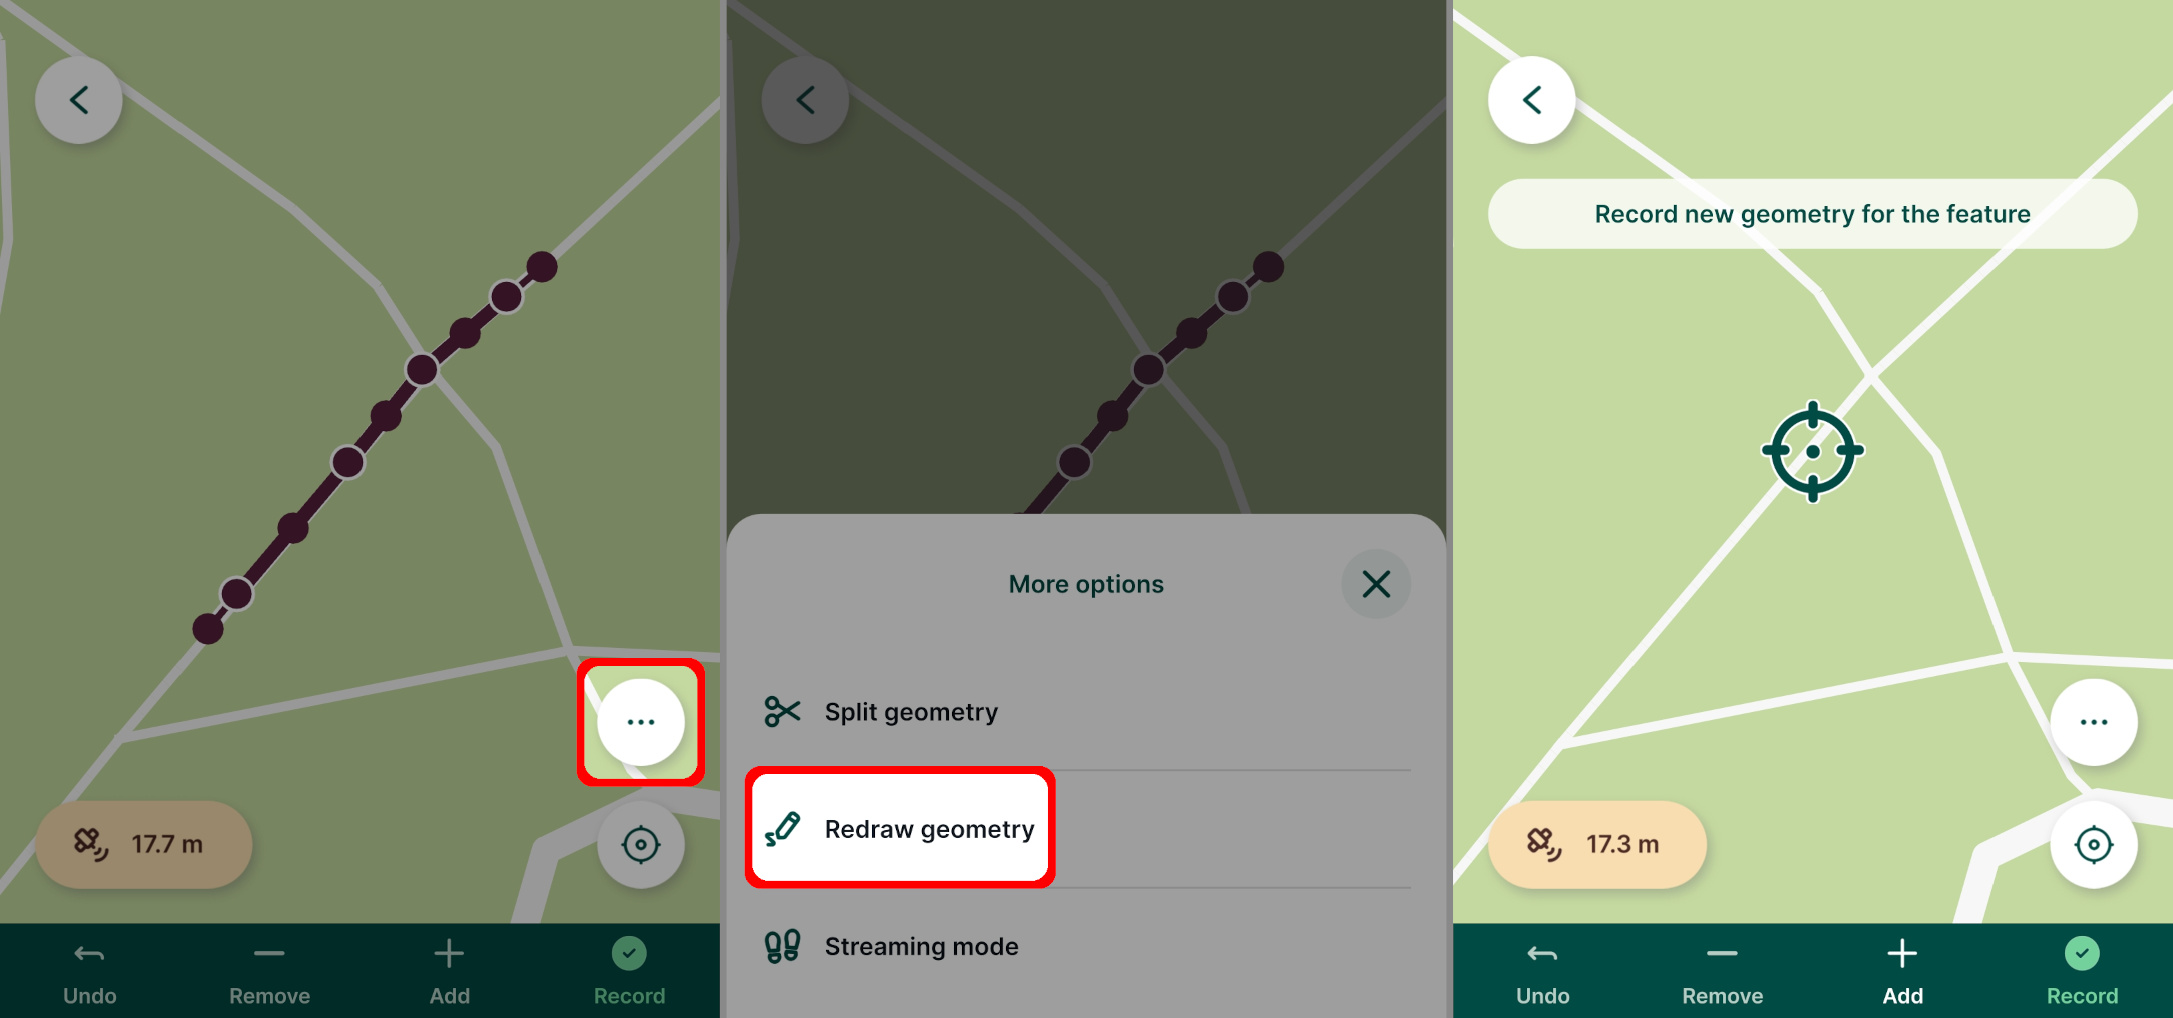
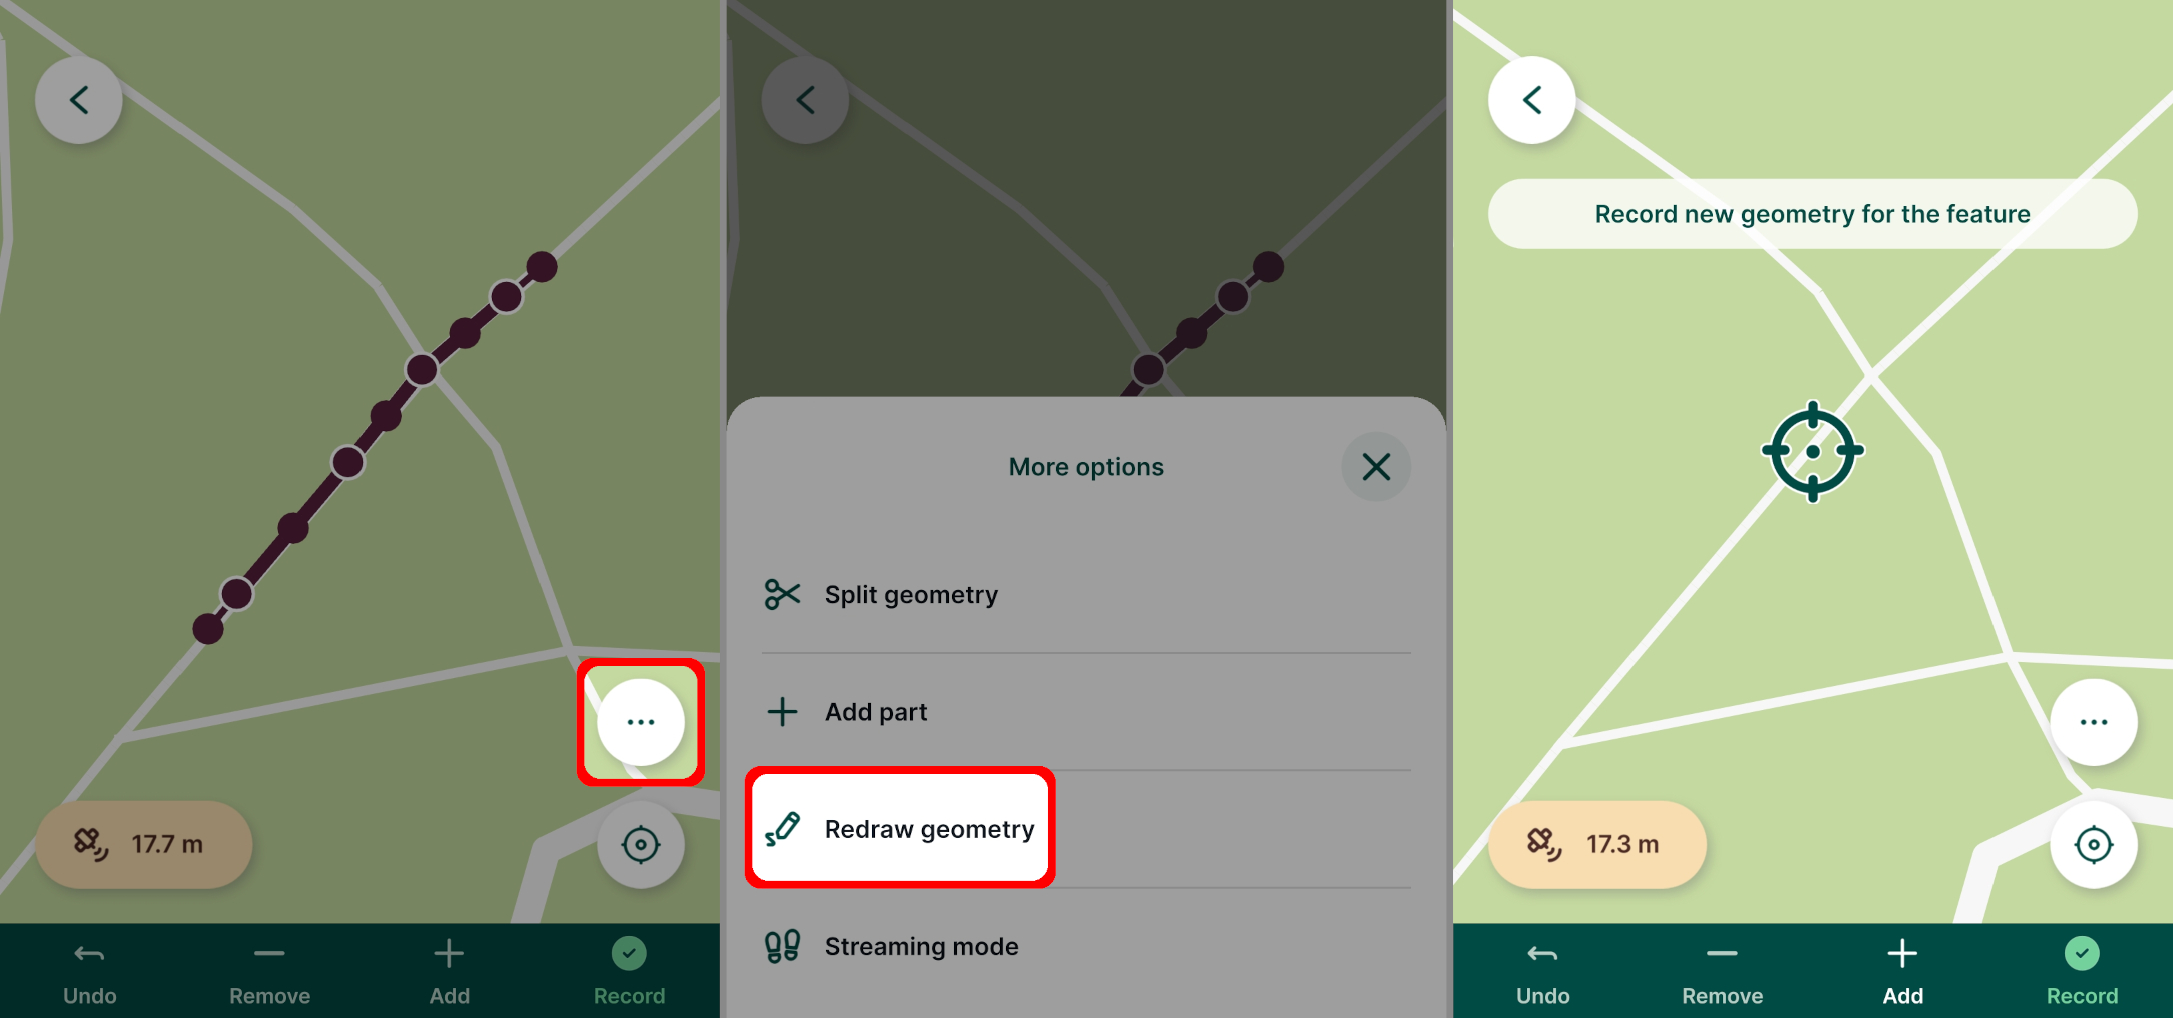
multipart geometry

diff --git a/src/field/mobile-features/index.md b/src/field/mobile-features/index.md
@@ -1,5 +1,6 @@
 ---
 description: With Mergin Maps mobile app, you can capture and edit points, lines, polygons and non-spatial features in the field using comprehensive editing tools.
+outline: deep
 ---
 
 # How to Add, Edit, Delete Features
@@ -30,7 +31,7 @@ The crosshairs you will see on your map are used as the recorded location. You c
 The *active layer* is displayed on the top of the map window. This layer is used for surveying new features. To switch to a different (editable) layer, tap on the active layer and select another one from the list.
 ![Active survey layer](./mobile-active-layer.jpg "Active survey layer")
 
-In the recording mode, the bottom panel contains tools to capture geometry. Once the geometry is recorded, you can fill in the attributes form and save the feature.
+In the recording mode, the bottom panel contains tools to capture geometry depending on the geometry type of the active layer. Once the geometry is recorded, you can fill in the attributes form and save the feature.
 
 Below, we describe capturing [point features](#capture-points), [lines and areas](#capture-lines-or-areas) as well as [non-spatial](#add-or-edit-non-spatial-features) records (e.g. adding a new entry to a table).
 
@@ -39,32 +40,33 @@ Attributes forms can be set up in QGIS to make collecting data more efficient. F
 :::
 
 ### Capture points
-To record a new point feature, tap the **Record** button (you have to be in the [recording mode](#adding-features)). 
+To record a new point, tap the **Record** button (you have to be in the [recording mode](#adding-features)). 
 
-Fill in the form as needed and tap the **Save** :heavy_check_mark: button. A point is added to the survey layer and is displayed on the map.
+Fill in values in the form and tap the **Save** :heavy_check_mark: button. A point is added to the survey layer and is displayed on the map.
 
 ![Add a point in Mergin Maps mobile app](./mobile-capture-point.jpg "Add a point in Mergin Maps mobile app")
 
+If you are using a layer with the MultiPoint geometry type, you have the option to **Add** parts as well as **Remove** and **Undo** button to modify them while recording the feature. MultiPoint feature can also be recorded by using the [*streaming mode*](#streaming-mode-to-survey-lines-or-areas).
+
+![Adding a multipoint in Mergin Maps mobile app](./mobile-capture-multipoint.webp "Adding a multipoint in Mergin Maps mobile app")
+
 ### Capture lines or areas
-There are two methods of capturing lines and areas: [adding vertices](#adding-points-to-survey-vertices-of-lines-or-areas) one by one or using the [*streaming mode*](#streaming-mode-to-survey-lines-or-areas) to capture features based on your position.
+Lines and polygons can be captured by adding vertices one by one or by using the [*streaming mode*](#streaming-mode-to-survey-lines-or-areas).
 
-#### Adding points to survey vertices of lines or areas
-Lines and areas can be captured by adding vertices one by one. When you are in the [**recording**](#adding-features) mode and your active layer is a line or polygon, you will see line and areas editing tools in the bottom panel.
-
-Tap **Add** to capture vertices of your line or area. If you want to change the position of the last vertex, tap **Remove** and move the vertex to the correct place. **Undo** can be used to revert last changes.
+In the [**recording**](#adding-features) mode tap **Add** to capture vertices of your line or area. If you want to change the position of the last vertex, tap **Remove** and move the vertex to the correct place. **Undo** can be used to revert last changes.
 
 Once the survey of the feature is completed, tap **Record** and fill in the form.
 ![Surveying lines in Mergin Maps mobile app](./mobile-capture-line.jpg "Surveying lines in Mergin Maps mobile app")
 
-#### Streaming mode to survey lines or areas
-Lines and areas can be also captured automatically based on your position. 
+If you are using layers with multipart geometry types, parts of features can be added when [editing geometry](#adding-part-of-multipart-geometry). 
+
+### Streaming mode
+Features can also be captured automatically based on your position. Streaming is not available for layers with *Point* geometry.
 
 Here is a video tutorial:
 <YouTube id="069-fXNqyJY" title="Streaming mode" />
 
-Make sure you are in the [**recording**](#adding-features) mode and that your active layer is a line or polygon.
-
-Tap the **streaming** button and then **Start streaming mode**.
+Tap the **streaming** button while in the [**recording**](#adding-features) mode and **Start streaming mode**. 
 
 ![Mergin Maps mobile app start streaming mode](./mobile-streaming-mode-start.jpg "Mergin Maps mobile app start streaming mode")
 
@@ -81,35 +83,47 @@ It is possible to set the **Threshold interval**, i.e. how often you want to cap
 :::
 
 ## Editing features
-Features can be browsed, edited and deleted through the [Layers](../layers/) panel in the <MobileAppNameShort />. Note that layers that are set as [read-only](../../gis/enable_digitising/) in the project properties cannot be edited.
+Tap a feature on the map or *tap and hold* to select one from multiple overlaying features to display the form.
 
-Tap the **Layers** button in the bottom navigation panel and select a layer to see the list of features it contains. 
+Use the **Edit** button to open the attributes form for editing. To edit the geometry of a feature, tap the **Edit geometry** button.
 
-![Layers in Mergin Maps mobile app](./mobile-layers-browse-features.jpg "Layers in Mergin Maps mobile app")
-
-To edit the attributes or geometry of a feature, select it from the list in the **Layers** panel. It is also possible to simply tap a feature on the map or *tap and hold* to select one from multiple overlaying features.
-
-Use the **Edit** button to open the attributes form. Here you can change the values of attributes as needed. To edit the geometry of a feature, tap the **Edit geometry** button.
+Once you are finished with your changes, use the **Save** :heavy_check_mark: button.
 
 ![Edit attributes and geometry in Mergin Maps mobile app](./mobile-edit-features.jpg "Edit attributes and geometry")
 
-To edit geometry of a point feature simply adjust the location in the same manner as when [adding new features](#capture-points). 
+Features can also be browsed, edited and deleted through the [Layers](../layers/) panel. Layers that are set as [read-only](../../gis/enable_digitising/) in the project properties cannot be edited.
+- Tap the **Layers** button in the bottom navigation panel and select a layer to see the list of features it contains. 
+- Select a feature from the list in the **Layers** panel to display its form and edit the values or geometry. 
 
-Once you are finished with your changes, tap the **Save** :heavy_check_mark: button.
+![Layers in Mergin Maps mobile app](./mobile-layers-browse-features.jpg "Layers in Mergin Maps mobile app")
 
-### Edit geometry of lines or areas
-There are multiple options when it comes to editing the geometry of lines and polygons: editing the vertices, [redrawing](#redraw-geometry-of-lines-or-areas) or [splitting](#split-geometry-of-lines-or-areas) features.
+### Editing geometry
+There are multiple options of editing the geometry of features depending on the geometry type of the survey layer: editing the vertices, [redrawing](#redraw-geometry-of-lines-or-areas) or [splitting](#split-geometry-of-lines-or-areas) features.
 
-Tap a line or polygon feature, press the **Edit** button and then use **Edit geometry**. The vertices of the feature will be highlighted. You can move, release or remove them as needed. Tap the **Record** button to save the modified geometry.
+To edit geometry of a point feature simply adjust the location in the same manner as when [adding new features](#capture-points).
+
+Layers with MultiPoint, lines and polygon geometries offer more options. Tap a feature, press the **Edit** button and then use **Edit geometry**. The vertices of the feature will be highlighted. You can move, **Release** or **Remove** them as needed. Tap the **Record** button to save the modified geometry.
 
 ![Editing line geometry in Mergin Maps mobile app](./mobile-edit-lines.jpg "Editing line geometry in Mergin Maps mobile app")
 
-The [streaming mode](#streaming-mode-to-survey-lines-or-areas) can be also used while editing lines or areas. Tap the **More option** button and use the **Streaming mode**. 
+### Adding part of multipart geometry
+Parts can be added to features from survey layers with multipart geometry type (MultiPoint, MultiLine, MultiPolygon) while editing geometry.
+
+Tap the **More option** button while editing geometry and use the **Add part** option.
+
+![Adding geometry part in Mergin Maps mobile app](./mobile-add-part.webp "Adding geometry part in Mergin Maps mobile app")
+
+Capture the part by using the editing tools and **Record** your changes. The part is added to the geometry of the feature.
+
+![Adding geometry part in Mergin Maps mobile app](./mobile-added-part.webp "Adding geometry part in Mergin Maps mobile app")
+
+### Using streaming mode to edit geometry
+The [streaming mode](#streaming-mode-to-survey-lines-or-areas) can be also used while editing features with compatible geometry type. Tap the **More option** button and use the **Streaming mode**. 
 
 ![Editing line geometry streaming](./mobile-edit-streaming.jpg "Editing line geometry streaming")
 
-### Redraw geometry of lines or areas
-The existing geometry of lines and areas can also be redrawn completely.
+### Redraw geometry
+The existing geometry of MulitPoints, lines and areas can also be redrawn.
 
 Tap the **More option** button and select the **Redraw geometry** option. 
 